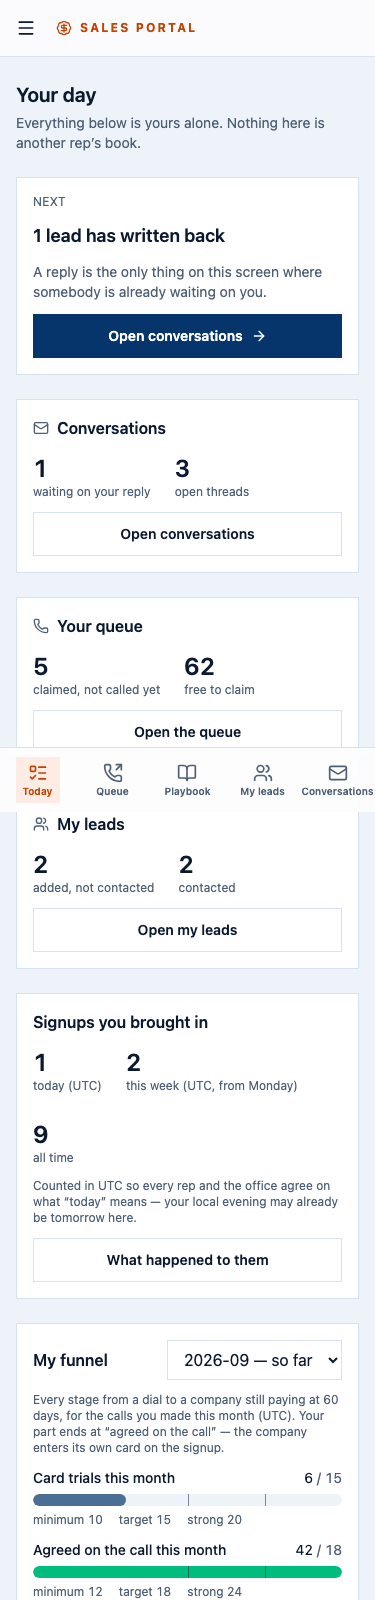
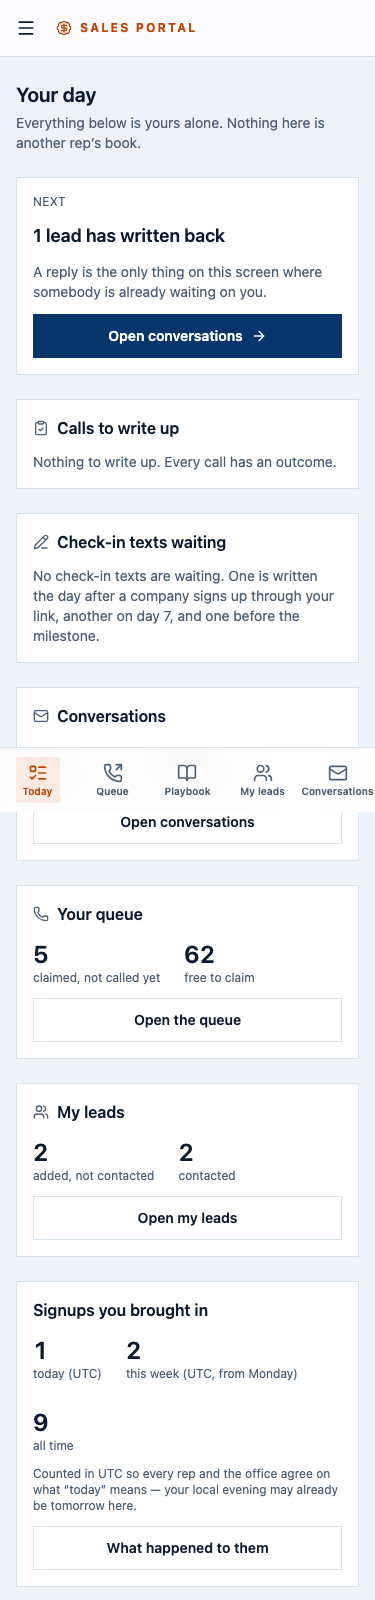
The sales portal's phone drawer no longer opens on a two-column grid of six statuses: the status is one full-width button that unfolds the six in the drawer's own flow behind one tap, the control and the rows share one scroll box, the foot is one row, and every drawer row fits without scrolling at 3
The owner, from his phone: "the drawer menu of the mobile version of
the sales platform clogs all the statuses in a grid and stays on top of
the top menu buttons, not allowing me to see and click on Queue etc."

Reproduced in the sales-portal harness at 375×660 — a 812px phone once
Safari's toolbars are counted. RepStatusPicker's `layout="list"` was the
pill plus a `grid grid-cols-2` of six 44px buttons, always open: 200px of
chrome before the first nav row, so Texts, Team and Notes showed and the
other seven sat under "Signed in as" in a scroll box nothing suggested
was one. Queue lives on the bottom bar, which the open drawer's scrim
covers by design — so from the owner's seat the drawer was all statuses
and no way through.

- app/components/sales/RepStatus.js: `layout="list"` now renders
  StatusMenu with `inline` — the header's own status button, full width,
  opening the six as one column in normal flow (not the header's
  floating w-56 panel, which at the top of a 320px drawer would cover
  the first four rows and be clipped by the drawer's scroll box). A
  pick folds it. data-tour="sales-status" and data-status-choice are
  unchanged; the tour anchors still resolve.
- app/components/sales/SalesMobileTabBar.js: the status control and the
  nav share one `flex-1 min-h-0 overflow-y-auto` box, so the open list
  pushes the rows down rather than covering them and a short viewport
  scrolls the whole column; the foot is "Signed in as … | Sign out" on
[…]

diff --git a/app/components/sales/RepStatus.js b/app/components/sales/RepStatus.js
@@ -283,13 +283,25 @@ const DOT = {
  * The picker.
  *
  * `layout="row"` is the six choices as pills in one row, the current one
- * filled. `layout="list"` is the drawer below lg — the same six as
- * full-width rows, one tap each. `layout="menu"` is the top bar from lg up:
- * one button reading the current state ("Available · for 12m") that opens
- * the same six as a menu underneath — the "Ready to Call" dropdown of the
- * dialler the owner sent, over the same state machine. All three render the
+ * filled. `layout="menu"` is the top bar from lg up: one button reading the
+ * current state ("Available · for 12m") that opens the same six as a menu
+ * underneath — the "Ready to Call" dropdown of the dialler the owner sent,
+ * over the same state machine. `layout="list"` is the drawer below lg: the
+ * SAME button, full width, and the same six — but opened in the drawer's own
+ * flow rather than floating over it, one to a row. All three render the
  * current state and how long it has been that, and all three are the same
  * control: none is a summary of another.
+ *
+ * Why the drawer's copy folds. Until 2026-09-17 it was the pill plus a
+ * two-column grid of six 44px buttons, always open — 200px of chrome at the
+ * top of a 320px-wide panel before the first row of the nav. On a phone in
+ * Safari the viewport is ~660px once the toolbars are counted, so Texts,
+ * Team and Notes were the only rows above the fold and the rest sat under
+ * "Signed in as". The owner: "clogs all the statuses in a grid ... not
+ * allowing me to see and click on Queue etc." A rep changes status a few
+ * times a day and opens the drawer to go somewhere far more often, so the
+ * six live behind one tap, and the tap is the same 44px button the header
+ * carries from lg up.
  *
  * States the picker does not offer — on a call, writing it up, paused for a
  * reason that is not on the list — are printed as what they are, with no
@@ -328,11 +340,10 @@ export function RepStatusPicker({ layout = "row" }) {
     setBusy("");
   }
 
-  const row = layout === "row";
-
-  if (layout === "menu") {
+  if (layout === "menu" || layout === "list") {
     return (
       <StatusMenu
+        inline={layout === "list"}
         t={t}
         state={state}
         stateLabel={stateLabel}
@@ -351,7 +362,7 @@ export function RepStatusPicker({ layout = "row" }) {
   return (
     <div
       data-tour="sales-status"
-      className={row ? "flex items-center gap-2 min-w-0 flex-wrap" : "space-y-2"}
+      className="flex items-center gap-2 min-w-0 flex-wrap"
       aria-label={t("app.salesStatus.pickerAria")}
     >
       {/* What they are now, and for how long. Printed even when a pill is
@@ -371,7 +382,7 @@ export function RepStatusPicker({ layout = "row" }) {
         ) : null}
       </span>
 
-      <div className={row ? "flex items-center gap-1 flex-wrap" : "grid grid-cols-2 gap-1.5"}>
+      <div className="flex items-center gap-1 flex-wrap">
         {choices.map((choice) => {
           const active = current?.code === choice.code;
           return (
@@ -396,7 +407,7 @@ export function RepStatusPicker({ layout = "row" }) {
       </div>
 
       {refused ? (
-        <p className={`text-xs text-amber-900 dark:text-amber-200 break-words ${row ? "basis-full" : ""}`}>
+        <p className="text-xs text-amber-900 dark:text-amber-200 break-words basis-full">
           {refused}
         </p>
       ) : null}
@@ -408,8 +419,14 @@ export function RepStatusPicker({ layout = "row" }) {
  * The menu form of the picker. Module-level, not declared inside the
  * picker's render — a component declared inside another's body is remounted
  * on every render, which drops the open state on each thirty-second tick.
+ *
+ * `inline` is the drawer's form: the button spans the panel and the six
+ * open BELOW it in normal flow, pushing the nav down, instead of as a
+ * floating panel. A floating w-56 menu at the top of a 320px drawer would
+ * cover the first four rows of the nav and be clipped by the drawer's own
+ * scroll box; in flow it is one more thing the drawer scrolls.
  */
-function StatusMenu({ t, state, stateLabel, forText, stale, loading, choices, current, busy, refused, onPick }) {
+function StatusMenu({ inline = false, t, state, stateLabel, forText, stale, loading, choices, current, busy, refused, onPick }) {
   const [open, setOpen] = useState(false);
   const wrap = useRef(null);
 
@@ -438,14 +455,17 @@ function StatusMenu({ t, state, stateLabel, forText, stale, loading, choices, cu
         aria-haspopup="menu"
         aria-expanded={open}
         onClick={() => setOpen((o) => !o)}
-        className={`inline-flex items-center gap-2 min-h-[44px] rounded-lg border px-3 text-sm font-medium ${TONE[state] || TONE[STATE_OFFLINE]}`}
+        data-status-toggle
+        className={`inline-flex items-center gap-2 min-h-[44px] rounded-lg border px-3 text-sm font-medium ${
+          inline ? "w-full" : ""
+        } ${TONE[state] || TONE[STATE_OFFLINE]}`}
       >
         {loading ? (
           <Loader2 size={12} className="animate-spin" />
         ) : (
           <span aria-hidden="true" className={`h-2.5 w-2.5 rounded-full ${DOT[state] || DOT[STATE_OFFLINE]}`} />
         )}
-        <span className="break-words">
+        <span className={`break-words ${inline ? "min-w-0 flex-1 text-left" : ""}`}>
           {forText ? t("app.salesStatus.currentFor", { state: stateLabel, duration: forText }) : stateLabel}
         </span>
         {stale ? <span className="opacity-80">{t("app.salesStatus.stale")}</span> : null}
@@ -455,7 +475,11 @@ function StatusMenu({ t, state, stateLabel, forText, stale, loading, choices, cu
       {open ? (
         <div
           role="menu"
-          className="absolute right-0 z-40 mt-1 w-56 rounded-lg border border-border bg-card p-1 shadow-lg"
+          className={
+            inline
+              ? "mt-1 w-full rounded-lg border border-border bg-card p-1"
+              : "absolute right-0 z-40 mt-1 w-56 rounded-lg border border-border bg-card p-1 shadow-lg"
+          }
         >
           {choices.map((choice) => {
             const active = current?.code === choice.code;

diff --git a/app/components/sales/SalesMobileTabBar.js b/app/components/sales/SalesMobileTabBar.js
@@ -225,41 +225,55 @@ export default function SalesMobileTabBar({ tabs, name = null, onSignOut, drawer
           </button>
         </div>
 
-        {drawerExtra ? (
-          <div className="px-4 py-3 border-b border-border">{drawerExtra}</div>
-        ) : null}
+        {/* One scroll box for the status control AND the rows, so the
+            control's open list pushes the rows down rather than covering
+            them, and on a viewport too short for everything (Safari's is
+            ~660px on a 812px phone once its toolbars are counted) the
+            whole column scrolls. Only the nav used to scroll, under a
+            fixed 200px status grid — three rows showed and the rest were
+            under the fold; see RepStatus.js on why the grid folded. */}
+        <div className="flex-1 min-h-0 overflow-y-auto">
+          {drawerExtra ? (
+            <div className="px-4 py-3 border-b border-border">{drawerExtra}</div>
+          ) : null}
 
-        <nav className="flex-1 overflow-y-auto py-2">
-          {drawer.map((tab) => {
-            const active = isActiveTab(pathname, tab.href);
-            return (
-              <Link
-                key={tab.href}
-                href={tab.href}
-                aria-current={active ? "page" : undefined}
-                data-sales-tour={tab.href}
-                className={`flex items-center min-h-[44px] px-4 py-2 text-sm font-medium border-l-2 ${
-                  active
-                    ? "border-brand-accent text-foreground bg-muted"
-                    : "border-transparent text-muted-foreground hover:text-foreground hover:bg-muted"
-                }`}
-              >
-                {tab.label}
-              </Link>
-            );
-          })}
-        </nav>
+          <nav className="py-2">
+            {drawer.map((tab) => {
+              const active = isActiveTab(pathname, tab.href);
+              return (
+                <Link
+                  key={tab.href}
+                  href={tab.href}
+                  aria-current={active ? "page" : undefined}
+                  data-sales-tour={tab.href}
+                  className={`flex items-center min-h-[44px] px-4 py-2 text-sm font-medium border-l-2 ${
+                    active
+                      ? "border-brand-accent text-foreground bg-muted"
+                      : "border-transparent text-muted-foreground hover:text-foreground hover:bg-muted"
+                  }`}
+                >
+                  {tab.label}
+                </Link>
+              );
+            })}
+          </nav>
+        </div>
 
-        <div className="border-t border-border px-4 py-3 space-y-2">
+        {/* The foot, one row: who, and the way out. It was two rows (the
+            name, then the button under it) — 96px the rows above could not
+            have. */}
+        <div className="border-t border-border px-4 py-2 flex items-center justify-between gap-3">
           {name ? (
-            <p className="text-sm text-muted-foreground break-words">
+            <p className="text-sm text-muted-foreground break-words min-w-0">
               {t("app.salesPortal.signedInAs", { name })}
             </p>
-          ) : null}
+          ) : (
+            <span />
+          )}
           <button
             type="button"
             onClick={onSignOut}
-            className="inline-flex items-center gap-2 min-h-[44px] text-sm font-medium text-muted-foreground hover:text-foreground"
+            className="inline-flex items-center gap-2 min-h-[44px] shrink-0 text-sm font-medium text-muted-foreground hover:text-foreground"
           >
             <LogOut size={14} />
             {t("app.salesPortal.signOut")}

diff --git a/docs/screens/sales-portal/harness/portal.jsx b/docs/screens/sales-portal/harness/portal.jsx
@@ -123,7 +123,19 @@ const settled = async () => {
     await wait(300);
   }
   if (scene === "status-menu") {
-    (await until('[data-tour="sales-status"] button')).click();
+    // The picker is in the header from lg up and in the drawer below it, and
+    // the header is display:none on a phone — so below lg the drawer is
+    // opened first and the drawer's copy of the button is the one pressed.
+    // Clicking the first match blindly pressed the hidden header button and
+    // the 375 frame showed nothing open.
+    const visible = () =>
+      [...document.querySelectorAll('[data-tour="sales-status"] button')].find((b) => b.getClientRects().length > 0);
+    if (!visible()) {
+      (await until('[data-tour-open="sales-nav"]')).click();
+      await until('[data-nav-drawer] [data-tour="sales-status"]');
+      await wait(300);
+    }
+    visible().click();
     await wait(200);
   }
   if (page === "support" && scene === "open-ticket") {

diff --git a/docs/screens/sales-portal/harness/stubs/portalFetch.js b/docs/screens/sales-portal/harness/stubs/portalFetch.js
@@ -160,6 +160,10 @@ function answer(p, u, method, body) {
       serverNow: new Date().toISOString(),
     };
   if (p === "/api/sales/calls/token") return { token: "tok", expiresInSeconds: 600 };
+  // Today's "Calls to write up" card. Empty: the card then says so in words,
+  // which is the frame worth keeping; unanswered, every Today frame carried
+  // "Harness has no answer" and the shooter flagged the scene as an error.
+  if (p === "/api/sales/calls/unlogged") return { store: { ready: true, missing: [] }, count: 0, items: [], serverNow: new Date().toISOString() };
   if (p === "/api/sales/calls/state") {
     if (method === "POST" && body?.state) state.presence = { ...state.presence, state: body.state, pauseReason: body.pauseReason || null, forMs: 0 };
     return { presence: state.presence, store: { ready: true }, choices: STATUS_CHOICES, autodial: state.autodial };

diff --git a/app/sales/voicemail/page.js b/app/sales/voicemail/page.js
@@ -159,7 +159,10 @@ export default function SalesVoicemailPage() {
           said. Rendered on this screen because "who tried to reach me" is
           one question, and hidden nowhere — an empty list says so in words.
           Server-side rule and the reason it exists: lib/sales/calls/missed.js. */}
-      <section className="space-y-3" data-tour="sales-missed-calls">
+      {/* data-sales-missed-calls, not data-tour: no tour step points here
+          (the voicemail step rings the list above), and a sales-* data-tour
+          nothing points at is what check:sales-mobile refuses. */}
+      <section className="space-y-3" data-sales-missed-calls>
         <header className="space-y-1">
           <h2 className="text-base font-semibold text-foreground flex items-center gap-2">
             <PhoneMissed size={16} aria-hidden="true" />

diff --git a/docs/screens/sales-mobile/README.md b/docs/screens/sales-mobile/README.md
@@ -46,3 +46,26 @@ an agenda list of the month's events — every day still opens "new event",
 every event still opens itself. The bottom bar's label has the padding it
 needs. The drawer container moved to `app/components/layout/NavDrawer.js`
 with no change to its markup.
+
+## 2026-09-17 — the drawer's status grid
+
+The owner, from his phone: "the drawer menu of the mobile version of the
+sales platform clogs all the statuses in a grid and stays on top of the
+top menu buttons, not allowing me to see and click on Queue etc."
+
+Reproduced at 375×660 — a 812px phone once Safari's toolbars are counted.
+The drawer's status picker was the pill plus a two-column grid of six 44px
+buttons, always open: 200px before the first nav row, so Texts, Team and
+Notes showed and the other seven sat under "Signed in as" in a scroll box
+nothing suggested was one. With the drawer open the scrim covers the bottom
+bar, which is where Queue lives — so from the owner's seat the drawer was
+all statuses and no way to Queue.
+
+Now `layout="list"` in `app/components/sales/RepStatus.js` is the header's
+own status button, full width, opening the six as one column IN the drawer's
+flow behind one tap (`today-status-menu-375.png`); the status control and
+the rows share one scroll box; and the foot is one row. All ten drawer rows
+fit collapsed at 375×660, 375×812 and 390×844 (`today-drawer-375.png`).
+The header's menu-mode picker is inside `hidden lg:block` and measured
+`display:none` below lg; with the drawer closed every bottom-bar tab
+hit-tests to itself.
